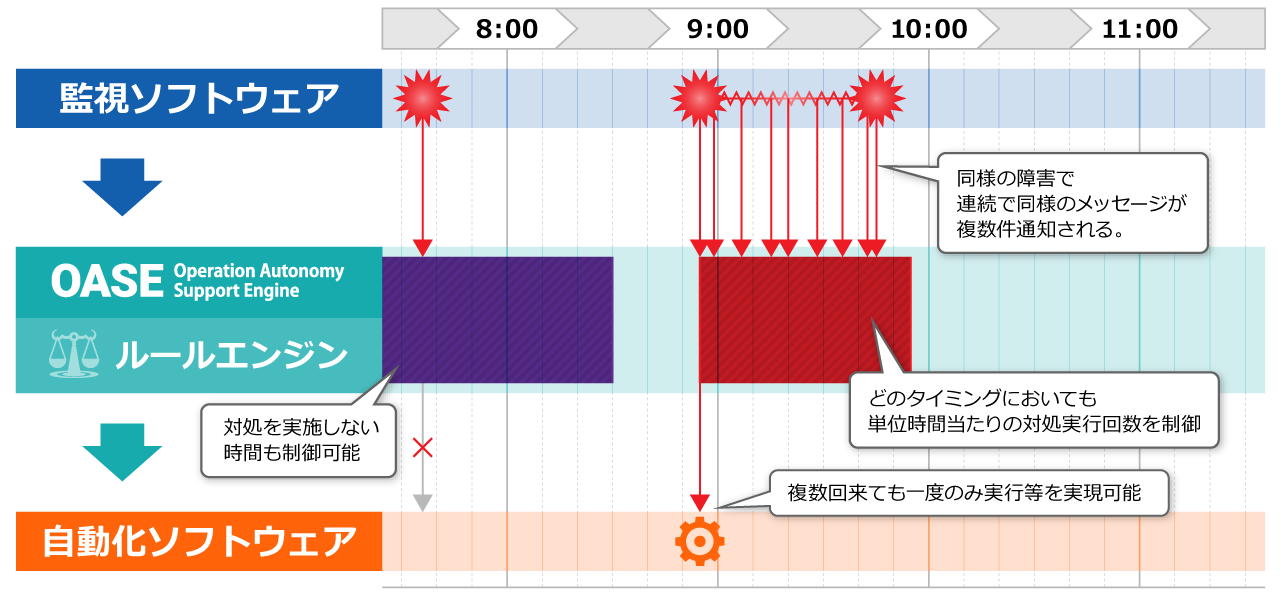
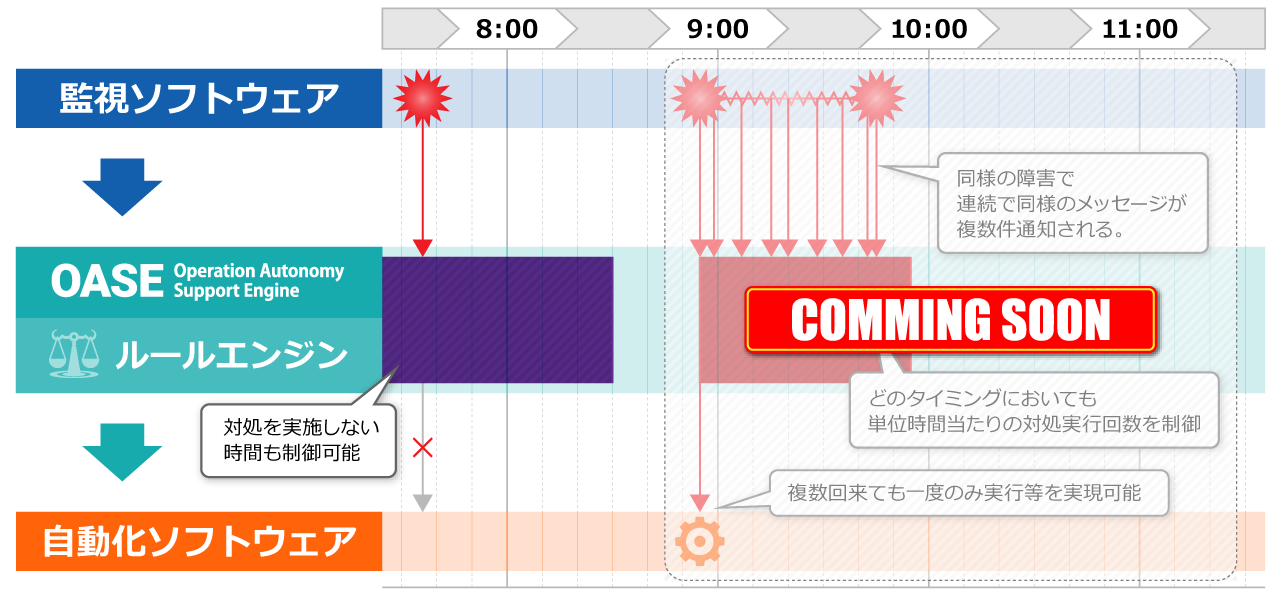
update.

Changed region(s): [[0.5312, 0.09, 0.9688, 0.75], [0.5, 0.78, 0.9688, 0.96]]

diff --git a/overview_ja.html b/overview_ja.html
@@ -46,9 +46,9 @@
 
 
 <meta name="keywords" content="Exastro, Exastro Suite, OSS">
-<meta name="description" content="Operation Autonomy Support Engineとは・・・・・・・・・・・・">
+<meta name="description" content="Exastro Operation Autonomy Support Engineは、システム運用業務の自動化・効率化・省力化を実現するためのソフトウェアです。システム運用におけるノウハウやドキュメントをルールとして一元管理し、運用情報から対処方法を自動で判断します。さらにExastro IT Automation等の自動化ソフトウェアをコントロールできるため、対処を自動で実行することも可能です。">
 <meta name="thumbnail" content="https://exastro-suite.github.io/docs/asset/img/ogp_twitter_image.jpg" />
-<meta property="og:description" content="Operation Autonomy Support Engineとは・・・・・・・・・・・・">
+<meta property="og:description" content="Exastro Operation Autonomy Support Engineは、システム運用業務の自動化・効率化・省力化を実現するためのソフトウェアです。システム運用におけるノウハウやドキュメントをルールとして一元管理し、運用情報から対処方法を自動で判断します。さらにExastro IT Automation等の自動化ソフトウェアをコントロールできるため、対処を自動で実行することも可能です。">
 <link rel="image_src" href="https://exastro-suite.github.io/oase-docs/asset/img/ogp_image.jpg">
 <meta property="og:type" content="article">
 <meta property="og:url" content="https://exastro-suite.github.io/oase-docs/index_ja.html">
@@ -167,12 +167,23 @@ Overview</h1>
     <h2><em>Exastro OASE</em> の概要</h2>
     <p><span class="loupe touch"><span class="exImage"><img src="../oase-docs/asset/img/oase_overview_ja.png" alt="概要イメージ図"></span></span></p>
     
-    <h3 id="feature1" class="toggleHeading">監視ソフトウェアや作業自動化ソフトウェアとのマルチに連携する</h3>
+    <h3 id="feature6" class="toggleHeading">ルールリストをステージングで確認する</h3>
+    
+    <div class="toggleText">
+      <div class="rightImage">
+        <span class="loupe touch"><img src="../oase-docs/asset/img/staging_confirmation.png" alt="ステージングで確認"></span>
+      </div>
+      <p>本番環境内にステージングとプロダクションの<em>2面をコンテナで切り分けて管理</em>しています。<br>
+      ステージング確認ではルールリストを適用前に実際のアクションの直前までを実行し妥当性を確認できます。</p>
+    </div>
+
+    <h3 id="feature1" class="toggleHeading">監視ソフトウェアや作業自動化ソフトウェアとマルチに連携する</h3>
     
     <div class="toggleText">
       <div class="rightImage">
           <span class="loupe touch"><img src="../oase-docs/asset/img/oase_chain_image.png" alt="マルチに連携"></span>
           <span class="note">※プロジェクト独自のツールであってもドライバを作成すれば連携可能</span>
+					<span class="note">※COMMING SOONのソフトウェアについては後日連携予定です</span>
       </div>
       <p>様々なツールとの連携ドライバやRestAPIを具備しているため<em>マルチな連携</em>ができます。</p>
     </div>
@@ -192,6 +203,7 @@ Overview</h1>
     <div class="toggleText">
       <div class="rightImage">
           <span class="loupe touch"><img src="../oase-docs/asset/img/control_execution_image.png" alt="実行回数を制御"></span>
+					<span class="note">※アクション実行回数の制御については後日実装予定です</span>
       </div>
       <p>監視ツールから複数メッセージを受けても対処に応じて<em>実行回数</em>や<em>実行間隔</em>を設定できます。</p>
     </div>
@@ -219,15 +231,7 @@ Overview</h1>
       <p>ロールベースアクセス制御機能を備えているため<em>参照・更新・実行</em>をグループ毎に割当てて管理できます。</p>
     </div>
     
-    <h3 id="feature6" class="toggleHeading">ルールリストをステージングで確認する</h3>
-    
-    <div class="toggleText">
-      <div class="rightImage">
-        <span class="loupe touch"><img src="../oase-docs/asset/img/staging_confirmation.png" alt="ステージングで確認"></span>
-      </div>
-      <p>本番環境内にステージングとプロダクションの<em>2面をコンテナで切り分けて管理</em>しています。<br>
-      ステージング確認ではルールリストを適用前に実際のアクションの直前までを実行し妥当性を確認できます。</p>
-    </div>
+
    
   </div>
 </section>

diff --git a/index_ja.html b/index_ja.html
@@ -46,9 +46,9 @@
 
 
 <meta name="keywords" content="Exastro, Exastro Suite, OSS">
-<meta name="description" content="Operation Autonomy Support Engineとは・・・・・・・・・・・・">
+<meta name="description" content="Exastro Operation Autonomy Support Engineは、システム運用業務の自動化・効率化・省力化を実現するためのソフトウェアです。システム運用におけるノウハウやドキュメントをルールとして一元管理し、運用情報から対処方法を自動で判断します。さらにExastro IT Automation等の自動化ソフトウェアをコントロールできるため、対処を自動で実行することも可能です。">
 <meta name="thumbnail" content="https://exastro-suite.github.io/docs/asset/img/ogp_twitter_image.jpg" />
-<meta property="og:description" content="Operation Autonomy Support Engineとは・・・・・・・・・・・・">
+<meta property="og:description" content="Exastro Operation Autonomy Support Engineは、システム運用業務の自動化・効率化・省力化を実現するためのソフトウェアです。システム運用におけるノウハウやドキュメントをルールとして一元管理し、運用情報から対処方法を自動で判断します。さらにExastro IT Automation等の自動化ソフトウェアをコントロールできるため、対処を自動で実行することも可能です。">
 <link rel="image_src" href="https://exastro-suite.github.io/oase-docs/asset/img/ogp_image.jpg">
 <meta property="og:type" content="website">
 <meta property="og:url" content="https://exastro-suite.github.io/oase-docs/index_ja.html">
@@ -207,12 +207,12 @@ $('#why').find('.text').each(function(){
       <svg id="svgArea" width="100%" height="100%" >
       </svg>
       <ol>
-        <li><a href="overview_ja.html#feature1"><i class="fas fa-cog"></i>　監視ソフトウェアや作業自動化ソフトウェアとのマルチに連携する</a></li>
+        <li><a href="overview_ja.html#feature6"><i class="fas fa-cog"></i>　ルールリストをステージングで確認する</a></li>
+        <li><a href="overview_ja.html#feature1"><i class="fas fa-cog"></i>　監視ソフトウェアや作業自動化ソフトウェアとマルチに連携する</a></li>
         <li><a href="overview_ja.html#feature2"><i class="fas fa-cog"></i>　コーディングレスなルールを定義する</a></li>
         <li><a href="overview_ja.html#feature3"><i class="fas fa-cog"></i>　アクション実行回数を制御する</a></li>
         <li><a href="overview_ja.html#feature4"><i class="fas fa-cog"></i>　複数のルールリストを管理する</a></li>
         <li><a href="overview_ja.html#feature5"><i class="fas fa-cog"></i>　グループ毎にアクセスを制御する</a></li>
-        <li><a href="overview_ja.html#feature6"><i class="fas fa-cog"></i>　ルールリストをステージングで確認する</a></li>
       </ol>
     </div>
     <p class="linkArea"><a href="./learn_ja.html" class="move"><span>Exastro OASE を始める <i class="fas fa-angle-right"></i></span></a></p>

diff --git a/case_ja.html b/case_ja.html
@@ -46,9 +46,9 @@
 
 
 <meta name="keywords" content="Exastro, Exastro Suite, OSS">
-<meta name="description" content="Operation Autonomy Support Engineとは・・・・・・・・・・・・">
+<meta name="description" content="Exastro Operation Autonomy Support Engineは、システム運用業務の自動化・効率化・省力化を実現するためのソフトウェアです。システム運用におけるノウハウやドキュメントをルールとして一元管理し、運用情報から対処方法を自動で判断します。さらにExastro IT Automation等の自動化ソフトウェアをコントロールできるため、対処を自動で実行することも可能です。">
 <meta name="thumbnail" content="https://exastro-suite.github.io/docs/asset/img/ogp_twitter_image.jpg" />
-<meta property="og:description" content="Operation Autonomy Support Engineとは・・・・・・・・・・・・">
+<meta property="og:description" content="Exastro Operation Autonomy Support Engineは、システム運用業務の自動化・効率化・省力化を実現するためのソフトウェアです。システム運用におけるノウハウやドキュメントをルールとして一元管理し、運用情報から対処方法を自動で判断します。さらにExastro IT Automation等の自動化ソフトウェアをコントロールできるため、対処を自動で実行することも可能です。">
 <link rel="image_src" href="https://exastro-suite.github.io/oase-docs/asset/img/ogp_image.jpg">
 <meta property="og:type" content="article">
 <meta property="og:url" content="https://exastro-suite.github.io/oase-docs/index_ja.html">

diff --git a/documents_ja.html b/documents_ja.html
@@ -46,9 +46,9 @@
 
 
 <meta name="keywords" content="Exastro, Exastro Suite, OSS">
-<meta name="description" content="Operation Autonomy Support Engineとは・・・・・・・・・・・・">
+<meta name="description" content="Exastro Operation Autonomy Support Engineは、システム運用業務の自動化・効率化・省力化を実現するためのソフトウェアです。システム運用におけるノウハウやドキュメントをルールとして一元管理し、運用情報から対処方法を自動で判断します。さらにExastro IT Automation等の自動化ソフトウェアをコントロールできるため、対処を自動で実行することも可能です。">
 <meta name="thumbnail" content="https://exastro-suite.github.io/docs/asset/img/ogp_twitter_image.jpg" />
-<meta property="og:description" content="Operation Autonomy Support Engineとは・・・・・・・・・・・・">
+<meta property="og:description" content="Exastro Operation Autonomy Support Engineは、システム運用業務の自動化・効率化・省力化を実現するためのソフトウェアです。システム運用におけるノウハウやドキュメントをルールとして一元管理し、運用情報から対処方法を自動で判断します。さらにExastro IT Automation等の自動化ソフトウェアをコントロールできるため、対処を自動で実行することも可能です。">
 <link rel="image_src" href="https://exastro-suite.github.io/oase-docs/asset/img/ogp_image.jpg">
 <meta property="og:type" content="article">
 <meta property="og:url" content="https://exastro-suite.github.io/oase-docs/index_ja.html">

diff --git a/downloads_ja.html b/downloads_ja.html
@@ -46,9 +46,9 @@
 
 
 <meta name="keywords" content="Exastro, Exastro Suite, OSS">
-<meta name="description" content="Operation Autonomy Support Engineとは・・・・・・・・・・・・">
+<meta name="description" content="Exastro Operation Autonomy Support Engineは、システム運用業務の自動化・効率化・省力化を実現するためのソフトウェアです。システム運用におけるノウハウやドキュメントをルールとして一元管理し、運用情報から対処方法を自動で判断します。さらにExastro IT Automation等の自動化ソフトウェアをコントロールできるため、対処を自動で実行することも可能です。">
 <meta name="thumbnail" content="https://exastro-suite.github.io/docs/asset/img/ogp_twitter_image.jpg" />
-<meta property="og:description" content="Operation Autonomy Support Engineとは・・・・・・・・・・・・">
+<meta property="og:description" content="Exastro Operation Autonomy Support Engineは、システム運用業務の自動化・効率化・省力化を実現するためのソフトウェアです。システム運用におけるノウハウやドキュメントをルールとして一元管理し、運用情報から対処方法を自動で判断します。さらにExastro IT Automation等の自動化ソフトウェアをコントロールできるため、対処を自動で実行することも可能です。">
 <link rel="image_src" href="https://exastro-suite.github.io/oase-docs/asset/img/ogp_image.jpg">
 <meta property="og:type" content="article">
 <meta property="og:url" content="https://exastro-suite.github.io/oase-docs/index_ja.html">

diff --git a/learn_ja.html b/learn_ja.html
@@ -46,9 +46,9 @@
 
 
 <meta name="keywords" content="Exastro, Exastro Suite, OSS">
-<meta name="description" content="Operation Autonomy Support Engineとは・・・・・・・・・・・・">
+<meta name="description" content="Exastro Operation Autonomy Support Engineは、システム運用業務の自動化・効率化・省力化を実現するためのソフトウェアです。システム運用におけるノウハウやドキュメントをルールとして一元管理し、運用情報から対処方法を自動で判断します。さらにExastro IT Automation等の自動化ソフトウェアをコントロールできるため、対処を自動で実行することも可能です。">
 <meta name="thumbnail" content="https://exastro-suite.github.io/docs/asset/img/ogp_twitter_image.jpg" />
-<meta property="og:description" content="Operation Autonomy Support Engineとは・・・・・・・・・・・・">
+<meta property="og:description" content="Exastro Operation Autonomy Support Engineは、システム運用業務の自動化・効率化・省力化を実現するためのソフトウェアです。システム運用におけるノウハウやドキュメントをルールとして一元管理し、運用情報から対処方法を自動で判断します。さらにExastro IT Automation等の自動化ソフトウェアをコントロールできるため、対処を自動で実行することも可能です。">
 <link rel="image_src" href="https://exastro-suite.github.io/oase-docs/asset/img/ogp_image.jpg">
 <meta property="og:type" content="article">
 <meta property="og:url" content="https://exastro-suite.github.io/oase-docs/index_ja.html">
